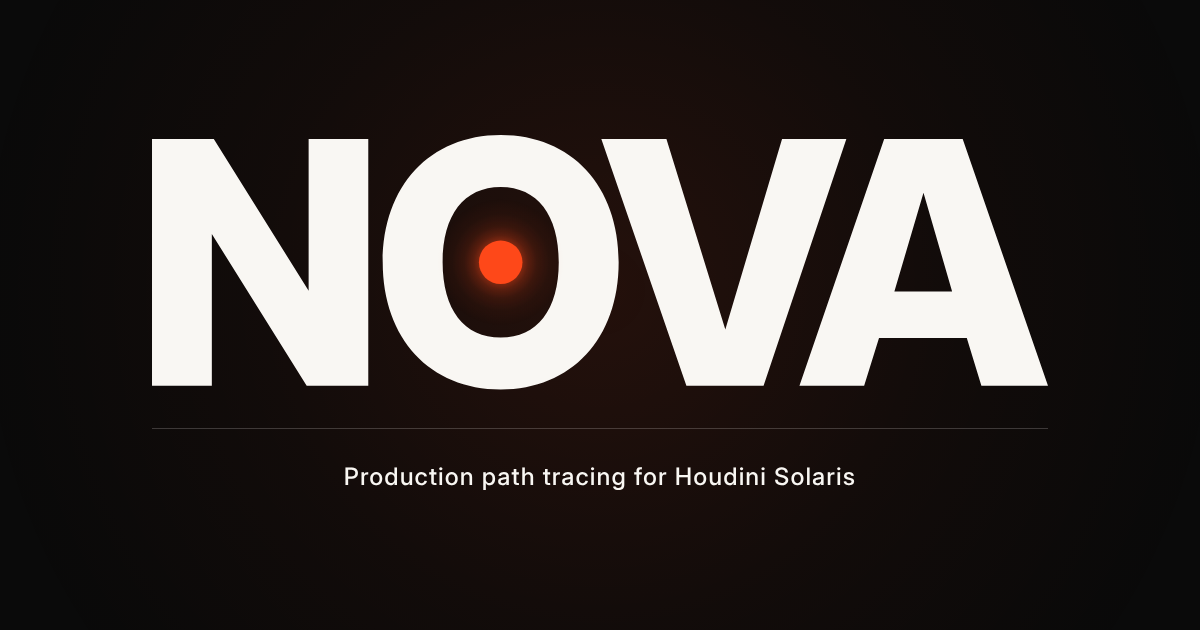
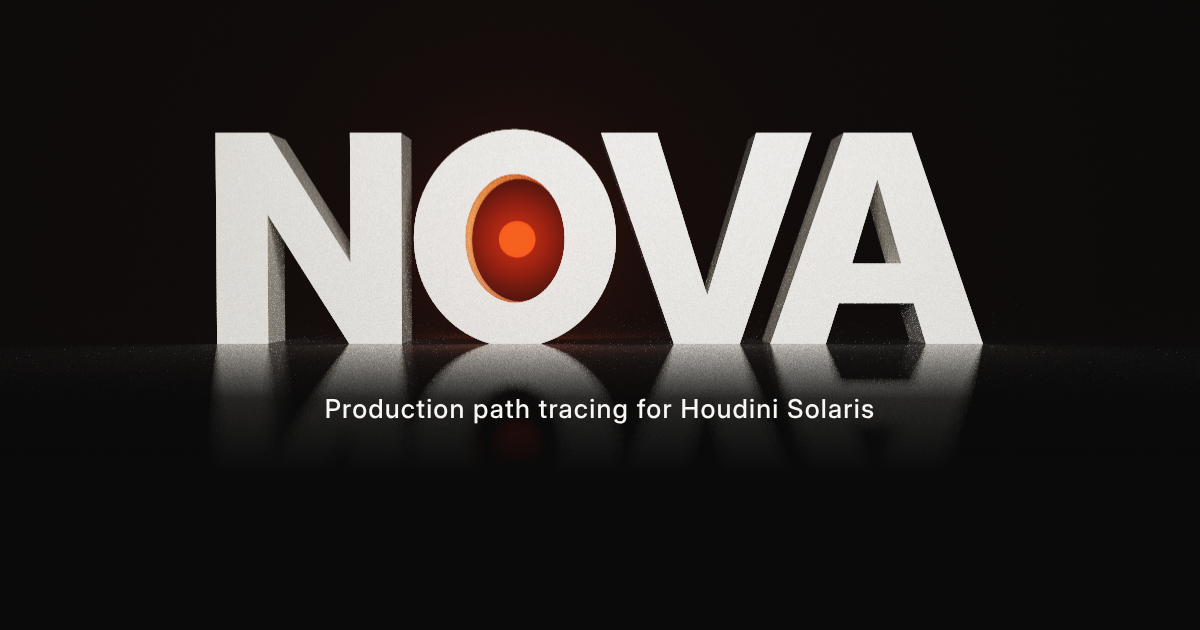
Polish the live hero: clean flight, readable label, new social image
The fade over the reflection now belongs to the opening frame only, a
camera jump restarts the picture instead of ghosting, and the label that
says the picture is an illustration stays readable over any frame. The
social image shows the live wordmark.

Claude-Session: https://claude.ai/code/session_019BqpPjX9jysKQWaSrLGkKW

Changed region(s): [[0.1233, 0.181, 0.8942, 0.6937], [0.2775, 0.7238, 0.7092, 0.7841], [0.4933, 0.2714, 0.5242, 0.3317]]

diff --git a/src/motion/hero-stage.ts b/src/motion/hero-stage.ts
@@ -83,6 +83,7 @@ export function initHeroStage(): boolean {
   const sppEl = hero.querySelector<HTMLElement>('[data-hero-spp]')!;
   const live = hero.querySelector<HTMLElement>('[data-hero-live]');
   const ember = hero.querySelector<HTMLElement>('[data-hero-ember]')!;
+  const shade = hero.querySelector<HTMLElement>('.hero__shade');
   const statement = hero.querySelector<HTMLElement>('[data-hero-statement]')!;
   const statementText = hero.querySelector<HTMLElement>('[data-hero-words]')!;
   if (live) live.hidden = false;
@@ -90,6 +91,7 @@ export function initHeroStage(): boolean {
   // ---- camera
   let keys = flight(1.6).keys;
   const fly = { p: 0 };
+  let lastP = 0;
   const applyFly = () => {
     const k = along(keys, fly.p);
     const c = tracer.camera;
@@ -103,7 +105,11 @@ export function initHeroStage(): boolean {
     const out = Math.min(1, Math.max(0, (fly.p - 0.86) / 0.14));
     tracer.fade = 1 - out * out * (3 - 2 * out);
     canvas.style.visibility = fly.p >= 0.999 ? 'hidden' : 'visible';
-    tracer.touch();
+    // A jump (an anchor link, a very slow frame) is a cut: start afresh, so
+    // nothing of the old view lingers in the new one.
+    if (Math.abs(fly.p - lastP) > 0.06) tracer.reset();
+    else tracer.touch();
+    lastP = fly.p;
   };
 
   const fit = () => {
@@ -176,6 +182,8 @@ export function initHeroStage(): boolean {
     .to(copy, { autoAlpha: 0, y: -24, duration: 0.7, ease: 'power2.in' }, 0)
     .to(meta.querySelectorAll('.hero__facts, .hero__cue'), { opacity: 0, duration: 0.7 }, 0)
     .to(fly, { p: 1, duration: 6, ease: 'power1.inOut', onUpdate: applyFly }, 0)
+    // The fade over the reflection belongs to the opening frame only.
+    .to(shade, { autoAlpha: 0, duration: 1.1 }, 0.1)
     .to(meta, { opacity: 0, duration: 0.6 }, 4.9)
     .to(ember, { autoAlpha: 1, scale: 1, duration: 1.2, ease: 'power2.out' }, 5.3)
     .fromTo(statement, { autoAlpha: 0, y: 36 }, { autoAlpha: 1, y: 0, duration: 0.9, ease: 'power2.out' }, 5.5)
